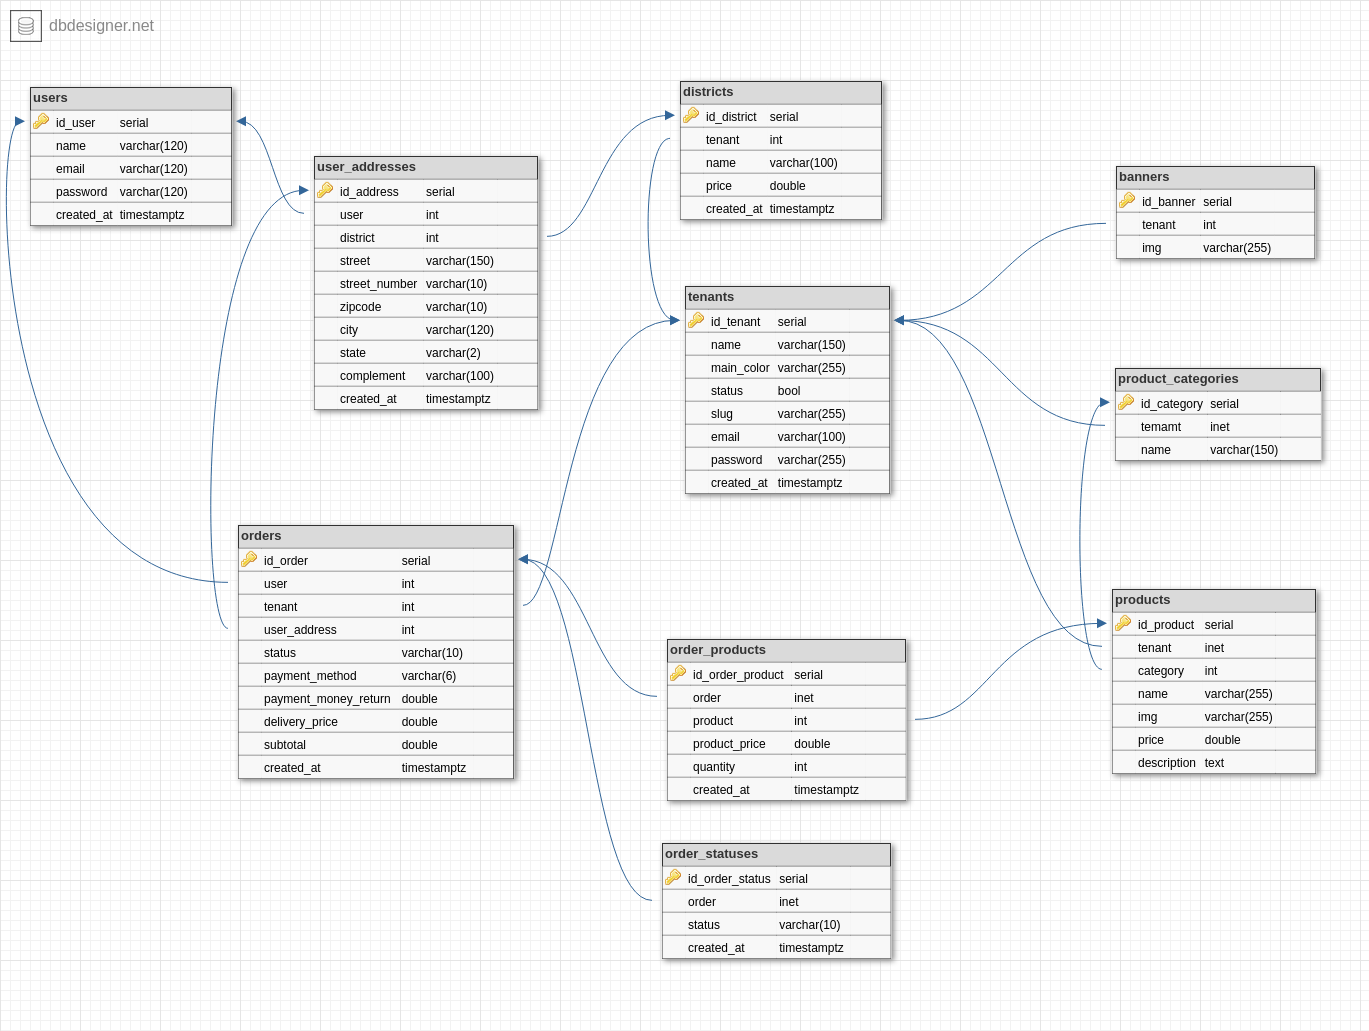
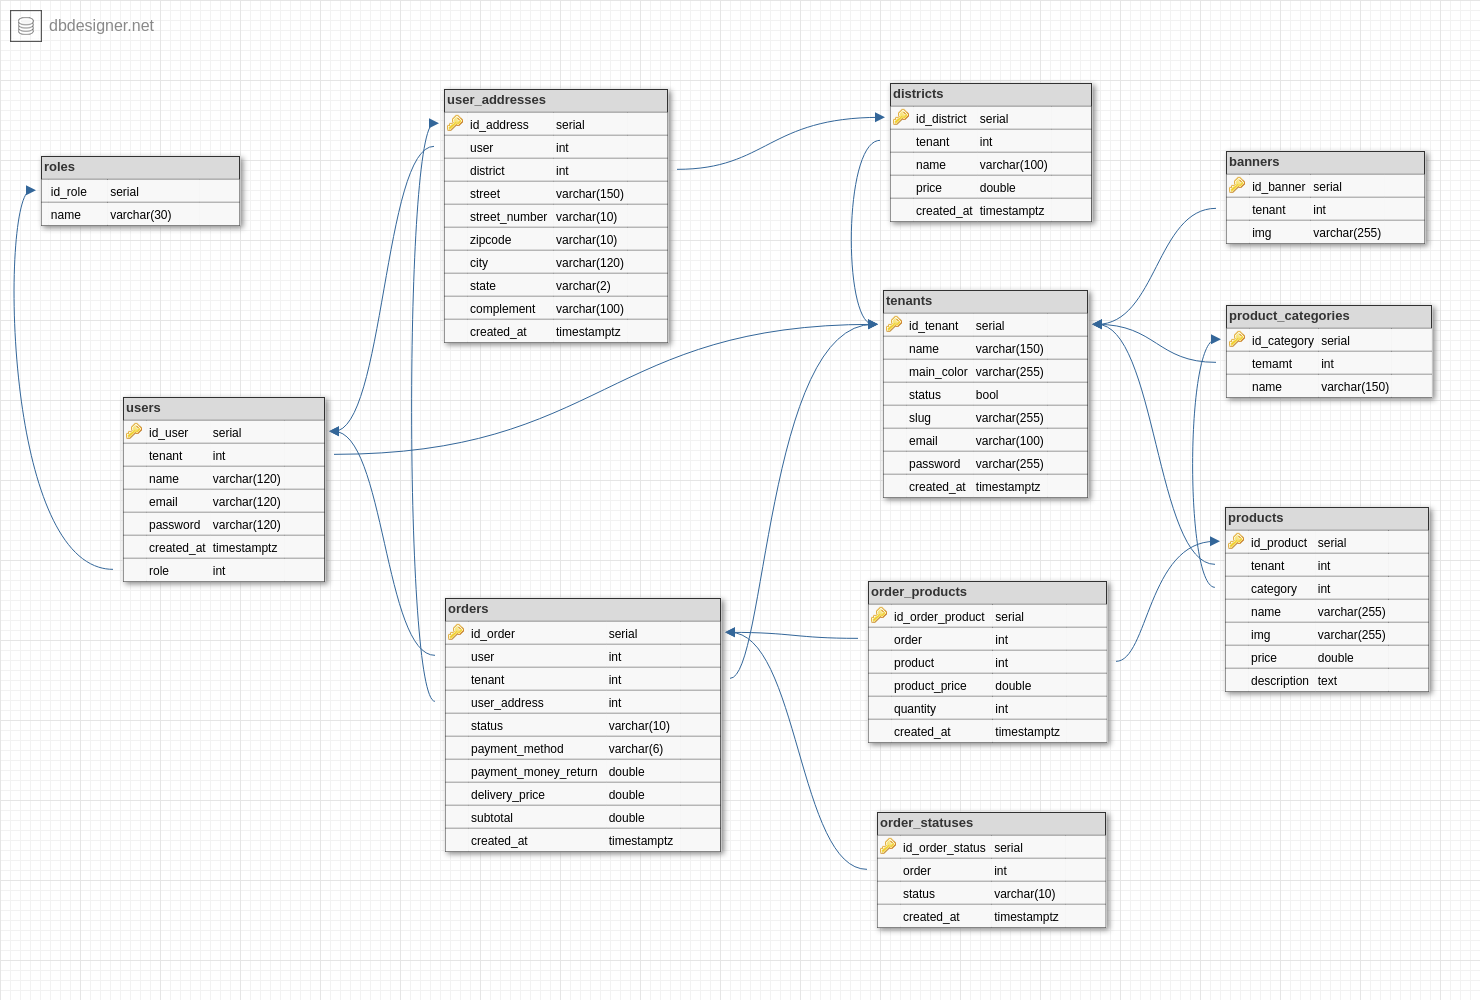
feat: create models

diff --git a/backEnd/src/db/models/order_model.py b/backEnd/src/db/models/order_model.py
@@ -1,0 +1,37 @@
+import enum
+from uuid import uuid4
+from sqlalchemy import Column, String, Float, TIMESTAMP, ForeignKey, Enum
+from sqlalchemy.sql import func
+
+from src.db.settings.config import Base, GUID
+
+
+class StateOrderEnum(enum.Enum):
+    PREPARING = 'preparing'
+    CANCELED = 'canceled'
+    SEND = 'send'
+    DELIVERED = 'delivered'
+
+
+class OrdersModel(Base):
+    __tablename__ = "orders"
+
+    id_order = Column(GUID(), primary_key=True, unique=True, default=uuid4, index=True)
+    user = Column(GUID(),
+                  ForeignKey('users.id_user', name='fk_user_orders'),
+                  nullable=False)
+    tenant = Column(GUID(),
+                    ForeignKey('tenants.id_tenant', name='fk_tenant_orders'),
+                    nullable=False)
+    address = Column(GUID(),
+                     ForeignKey('user_addresses.id_address', name='fk_address_orders'),
+                     nullable=False)
+    status = Column(Enum(StateOrderEnum), nullable=False)
+    payment_method = Column(String(6), nullable=False)
+    payment_money_return = Column(Float, nullable=True)
+    delivery_price = Column(Float, nullable=False)
+    subtotal = Column(Float, nullable=False)
+    created_at = Column(TIMESTAMP,
+                        server_default=func.now(),
+                        onupdate=func.current_timestamp()
+                        )

diff --git a/backEnd/src/db/models/user_model.py b/backEnd/src/db/models/user_model.py
@@ -1,5 +1,5 @@
 from uuid import uuid4
-from sqlalchemy import Column, String, TIMESTAMP
+from sqlalchemy import Column, String, TIMESTAMP, ForeignKey
 from sqlalchemy.sql import func
 
 from src.db.settings.config import Base, GUID
@@ -9,9 +9,15 @@ class UserModel(Base):
     __tablename__ = "users"
 
     id_user = Column(GUID(), primary_key=True, unique=True, default=uuid4, index=True)
-    name = Column(String, nullable=False)
-    email = Column(String, unique=True, nullable=False)
-    password = Column(String, nullable=False)
+    tenant = Column(GUID(),
+                    ForeignKey('tenants.id_tenant', name='fk_tenant_user'),
+                    nullable=False)
+    role = Column(GUID(),
+                  ForeignKey('roles.id_role', name='fk_role_user'),
+                  nullable=False)
+    name = Column(String(120), nullable=False)
+    email = Column(String(120), unique=True, nullable=False)
+    password = Column(String(255), nullable=False)
     created_at = Column(TIMESTAMP,
                         server_default=func.now(),
                         onupdate=func.current_timestamp()

diff --git a/backEnd/src/db/models/product_model.py b/backEnd/src/db/models/product_model.py
@@ -1,0 +1,26 @@
+from uuid import uuid4
+from sqlalchemy import Column, String, TIMESTAMP, ForeignKey, Text, Float
+from sqlalchemy.sql import func
+
+from src.db.settings.config import Base, GUID
+
+
+class ProductModel(Base):
+    __tablename__ = "products"
+
+    id_product = Column(GUID(), primary_key=True, unique=True, default=uuid4, index=True)
+    tenant = Column(GUID(),
+                    ForeignKey('tenants.id_tenant', name='fk_tenant_product'),
+                    nullable=False)
+    category = Column(GUID(),
+                      ForeignKey('product_categories.id_product_categories',
+                                 name='fk_category_product'),
+                      nullable=False)
+    name = Column(String(255), nullable=False)
+    description = Column(Text, nullable=False)
+    price = Column(Float, nullable=False)
+    img = Column(String(255), nullable=False)
+    created_at = Column(TIMESTAMP,
+                        server_default=func.now(),
+                        onupdate=func.current_timestamp()
+                        )

diff --git a/backEnd/src/db/models/order_product_model.py b/backEnd/src/db/models/order_product_model.py
@@ -1,0 +1,27 @@
+from uuid import uuid4
+from sqlalchemy import Column, Integer, Float, TIMESTAMP, ForeignKey
+from sqlalchemy.sql import func
+
+from src.db.settings.config import Base, GUID
+
+
+class OrderProductsModel(Base):
+    __tablename__ = "order_products"
+
+    id_order_product = Column(GUID(),
+                              primary_key=True,
+                              unique=True,
+                              default=uuid4,
+                              index=True)
+    order = Column(GUID(),
+                   ForeignKey('orders.id_order', name='fk_order_order_product'),
+                   nullable=False)
+    product = Column(GUID(),
+                     ForeignKey('products.id_product', name='fk_product_order_product'),
+                     nullable=False)
+    product_price = Column(Float, nullable=False)
+    quantity = Column(Integer, nullable=False)
+    created_at = Column(TIMESTAMP,
+                        server_default=func.now(),
+                        onupdate=func.current_timestamp()
+                        )

diff --git a/backEnd/src/db/models/order_status_model.py b/backEnd/src/db/models/order_status_model.py
@@ -1,0 +1,31 @@
+import enum
+from uuid import uuid4
+from sqlalchemy import Column, TIMESTAMP, ForeignKey, Enum
+from sqlalchemy.sql import func
+
+from src.db.settings.config import Base, GUID
+
+
+class StateOrderEnum(enum.Enum):
+    PREPARING = 'preparing'
+    CANCELED = 'canceled'
+    SEND = 'send'
+    DELIVERED = 'delivered'
+
+
+class OrderStatusesModel(Base):
+    __tablename__ = "order_statuses"
+
+    id_order_status = Column(GUID(),
+                             primary_key=True,
+                             unique=True,
+                             default=uuid4,
+                             index=True)
+    order = Column(GUID(),
+                   ForeignKey('orders.id_order', name='fk_order_order_status'),
+                   nullable=False)
+    status = Column(Enum(StateOrderEnum), nullable=False)
+    created_at = Column(TIMESTAMP,
+                        server_default=func.now(),
+                        onupdate=func.current_timestamp()
+                        )

diff --git a/backEnd/src/db/models/user_address_model.py b/backEnd/src/db/models/user_address_model.py
@@ -9,12 +9,12 @@ class UserAddressModel(Base):
     __tablename__ = "user_addresses"
 
     id_address = Column(GUID(), primary_key=True, unique=True, default=uuid4, index=True)
-    id_user = Column(GUID(),
-                     ForeignKey('users.id', name='fk_user_address'),
-                     nullable=False)
-    id_district = Column(GUID(),
-                         ForeignKey('districts.id', name='fk_district_address'),
-                         nullable=False)
+    user = Column(GUID(),
+                  ForeignKey('users.id_user', name='fk_user_address'),
+                  nullable=False)
+    district = Column(GUID(),
+                      ForeignKey('districts.id_district', name='fk_district_address'),
+                      nullable=False)
     street = Column(String(150), nullable=False)
     street_number = Column(String(10), nullable=True)
     zipcode = Column(String(10), nullable=True)

diff --git a/backEnd/src/db/models/product_category_model.py b/backEnd/src/db/models/product_category_model.py
@@ -1,0 +1,23 @@
+from uuid import uuid4
+from sqlalchemy import Column, String, TIMESTAMP, ForeignKey
+from sqlalchemy.sql import func
+
+from src.db.settings.config import Base, GUID
+
+
+class ProductCategoriesModel(Base):
+    __tablename__ = "product_categories"
+
+    id_product_categories = Column(GUID(),
+                                   primary_key=True,
+                                   unique=True,
+                                   default=uuid4,
+                                   index=True)
+    tenant = Column(GUID(),
+                    ForeignKey('tenants.id_tenant', name='fk_tenant_product_categories'),
+                    nullable=False)
+    name = Column(String(150), nullable=False)
+    created_at = Column(TIMESTAMP,
+                        server_default=func.now(),
+                        onupdate=func.current_timestamp()
+                        )

diff --git a/backEnd/src/db/models/models.py b/backEnd/src/db/models/models.py
@@ -1,2 +1,12 @@
 # Here import all models
-from src.db.models.user_model import Base, UserModel
+from src.db.models.banner_model import Base, BannerModel
+from src.db.models.district_model import DistrictModel
+from src.db.models.order_model import OrdersModel
+from src.db.models.order_product_model import OrderProductsModel
+from src.db.models.order_status_model import OrderStatusesModel
+from src.db.models.product_category_model import ProductCategoriesModel
+from src.db.models.product_model import ProductModel
+from src.db.models.role_model import RoleModel
+from src.db.models.tenant_model import TenantModel
+from src.db.models.user_address_model import UserAddressModel
+from src.db.models.user_model import UserModel

diff --git a/backEnd/src/db/models/banner_model.py b/backEnd/src/db/models/banner_model.py
@@ -1,0 +1,19 @@
+from uuid import uuid4
+from sqlalchemy import Column, String, TIMESTAMP, ForeignKey
+from sqlalchemy.sql import func
+
+from src.db.settings.config import Base, GUID
+
+
+class BannerModel(Base):
+    __tablename__ = "banners"
+
+    id_banner = Column(GUID(), primary_key=True, unique=True, default=uuid4, index=True)
+    tenant = Column(GUID(),
+                    ForeignKey('tenants.id_tenant', name='fk_tenant_banner'),
+                    nullable=False)
+    img = Column(String(255), nullable=False)
+    created_at = Column(TIMESTAMP,
+                        server_default=func.now(),
+                        onupdate=func.current_timestamp()
+                        )

diff --git a/backEnd/src/db/models/district_model.py b/backEnd/src/db/models/district_model.py
@@ -9,9 +9,9 @@ class DistrictModel(Base):
     __tablename__ = "districts"
 
     id_district = Column(GUID(), primary_key=True, unique=True, default=uuid4, index=True)
-    id_tenant = Column(GUID(),
-                       ForeignKey('tenants.id', name='fk_tenant_district'),
-                       nullable=False)
+    tenant = Column(GUID(),
+                    ForeignKey('tenants.id_tenant', name='fk_tenant_district'),
+                    nullable=False)
     name = Column(String(100), nullable=False)
     price_shipping = Column(Float, nullable=True)
     created_at = Column(TIMESTAMP,

diff --git a/backEnd/src/db/models/role_model.py b/backEnd/src/db/models/role_model.py
@@ -1,0 +1,16 @@
+from uuid import uuid4
+from sqlalchemy import Column, String, TIMESTAMP
+from sqlalchemy.sql import func
+
+from src.db.settings.config import Base, GUID
+
+
+class RoleModel(Base):
+    __tablename__ = "roles"
+
+    id_role = Column(GUID(), primary_key=True, unique=True, default=uuid4, index=True)
+    name = Column(String(30), nullable=False)
+    created_at = Column(TIMESTAMP,
+                        server_default=func.now(),
+                        onupdate=func.current_timestamp()
+                        )
